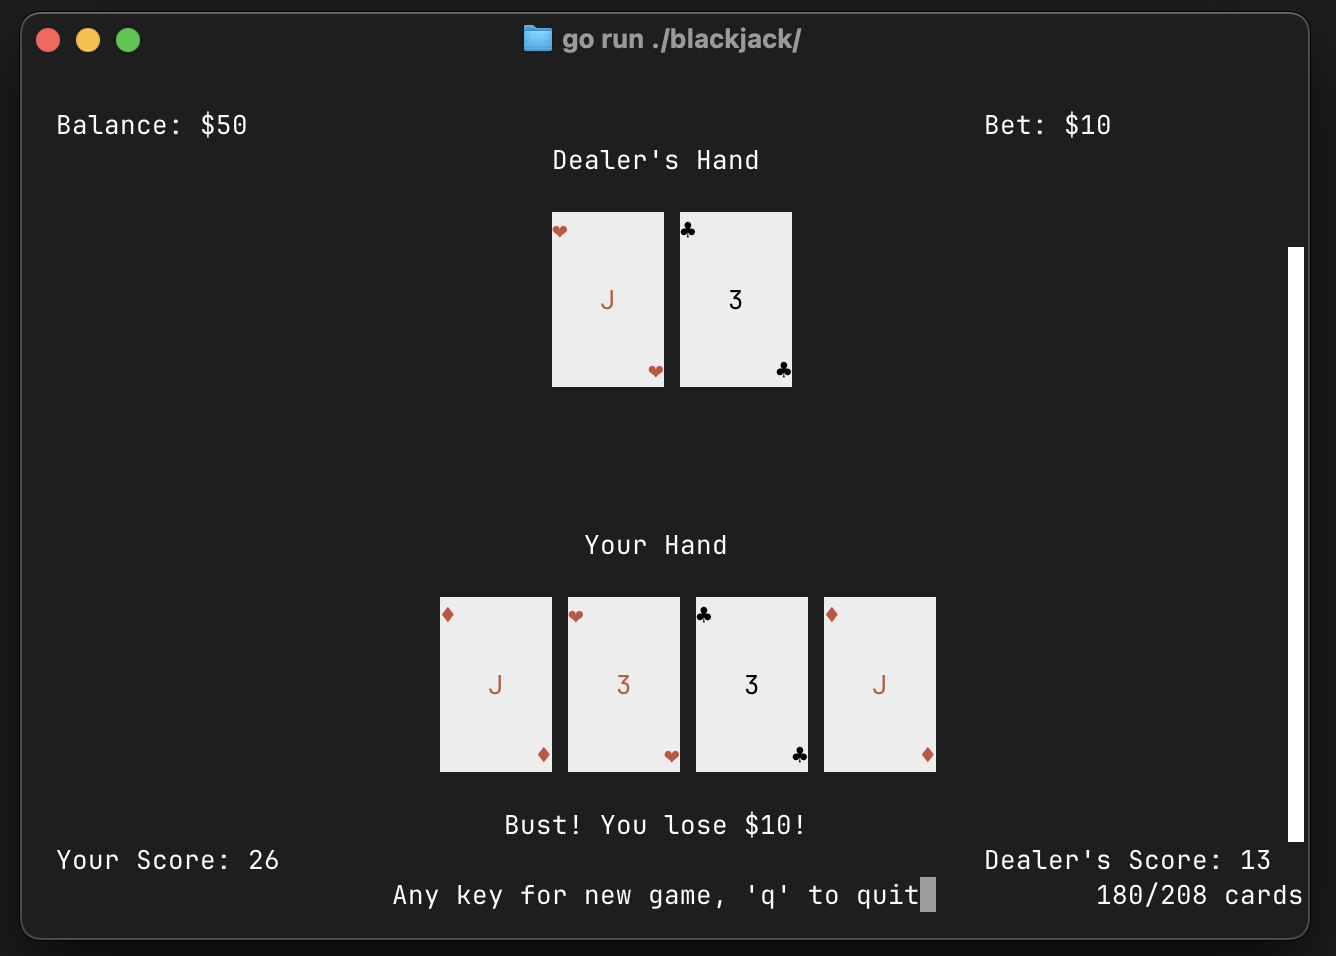
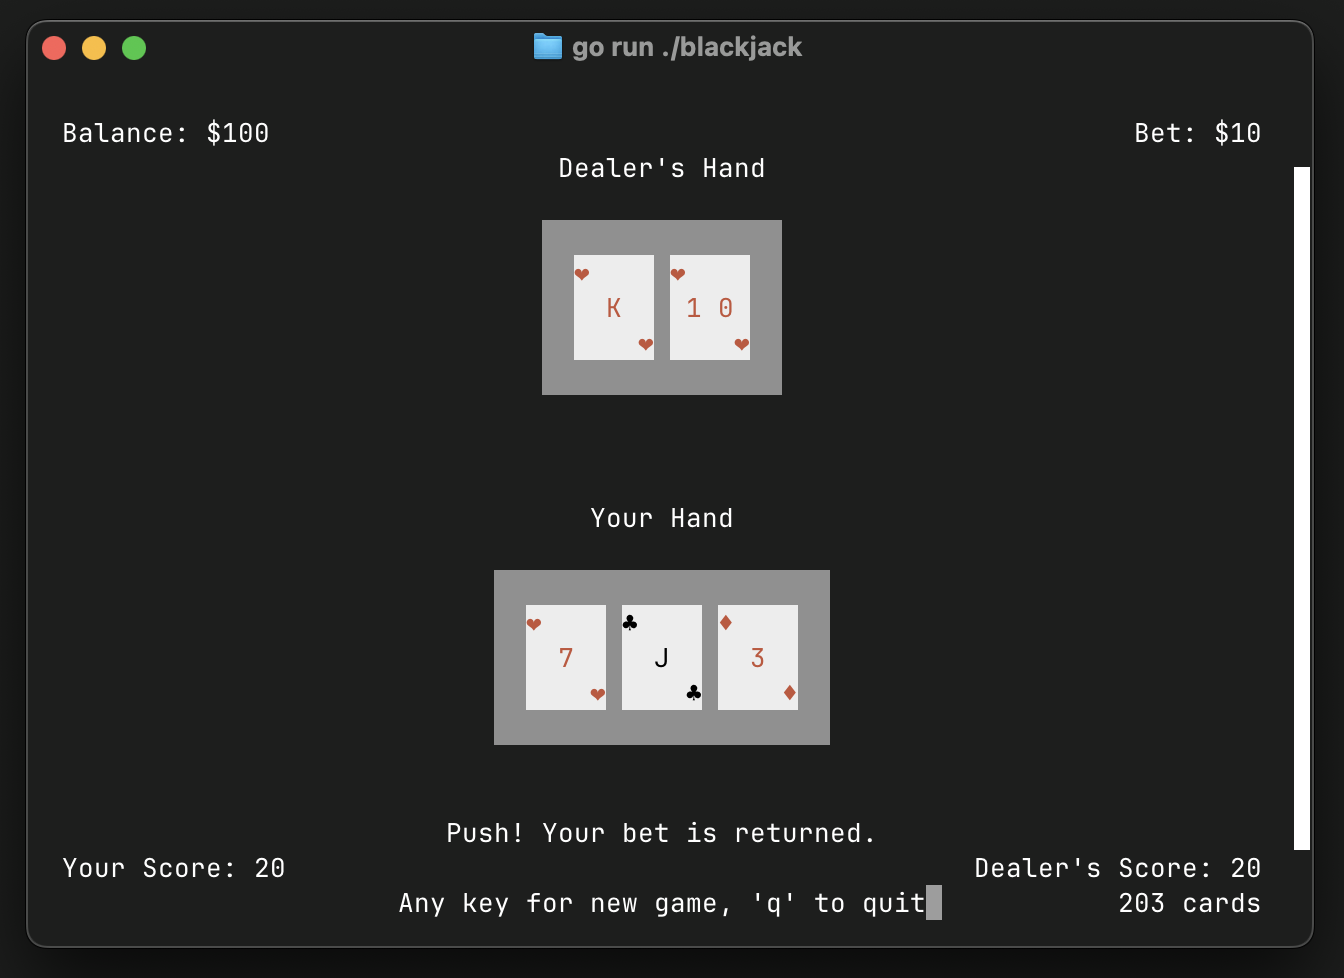
Add a dark gray or green border around the cards, so even if the terminal has white bg they are visible

diff --git a/blackjack/blackjack.go b/blackjack/blackjack.go
@@ -32,15 +32,16 @@ const (
 
 // Game represents the blackjack game state.
 type Game struct {
-	ap      *ansipixels.AnsiPixels
-	deck    *Deck
-	player  []Card
-	dealer  []Card
-	playing bool
-	state   GameState
-	message string
-	balance int
-	bet     int
+	ap          *ansipixels.AnsiPixels
+	deck        *Deck
+	player      []Card
+	dealer      []Card
+	playing     bool
+	state       GameState
+	message     string
+	balance     int
+	bet         int
+	borderColor string
 }
 
 // initDeck initializes a new shuffled deck.
@@ -87,6 +88,7 @@ const (
 // drawCardOnScreen draws a card on the screen at the specified position.
 func (g *Game) drawCardOnScreen(x, y int, card Card, hidden bool) {
 	// Draw card border
+	g.ap.DrawColoredBox(x-1, y-1, cardWidth+1, 5, g.borderColor)
 	g.ap.MoveCursor(x, y)
 	// Draw card content
 	if hidden {
@@ -121,6 +123,8 @@ func (g *Game) drawCardOnScreen(x, y int, card Card, hidden bool) {
 
 // drawHand draws a hand of cards at the specified position.
 func (g *Game) drawHand(x, y int, cards []Card, hideFirst bool) {
+	// Add extra bars vertically so space around cards is even on height vs width (as pixels are 2x tall than wide)
+	g.ap.DrawColoredBox(x-2, y-1, cardWidth*len(cards)+3, 5, g.borderColor)
 	for i, card := range cards {
 		hidden := hideFirst && i == 0
 		pos := x + i*cardWidth
@@ -296,10 +300,10 @@ func (g *Game) draw() {
 	// Draw dealer's hand
 	g.ap.WriteCentered(2, "Dealer's Hand")
 	dealerOffset := g.LeftMostCardPos(len(g.dealer))
-	g.drawHand(dealerOffset, 4, g.dealer, g.state == StatePlayerTurn)
+	g.drawHand(dealerOffset, 5, g.dealer, g.state == StatePlayerTurn)
 
 	// Draw player's hand
-	g.ap.WriteCentered(g.ap.H-11, "Your Hand")
+	g.ap.WriteCentered(g.ap.H-12, "Your Hand")
 	playerOffset := g.LeftMostCardPos(len(g.player))
 	g.drawHand(playerOffset, g.ap.H-9, g.player, false)
 
@@ -362,6 +366,7 @@ func main() {
 	betAmount := flag.Int("bet", 10, "Bet amount in `dollars`")
 	numDecks := flag.Int("decks", 4, "Number of decks to use")
 	fps := flag.Float64("fps", 60, "Frames per second (for resize/refreshes/animations)")
+	greenFlag := flag.Bool("green", false, "Use green instead of dark grey around the cards")
 	cli.Main()
 
 	ap := ansipixels.NewAnsiPixels(*fps)
@@ -371,11 +376,15 @@ func main() {
 	}
 
 	game := &Game{
-		ap:      ap,
-		playing: true,
-		state:   StatePlayerTurn,
-		balance: *initialBalance,
-		bet:     *betAmount,
+		ap:          ap,
+		playing:     true,
+		state:       StatePlayerTurn,
+		balance:     *initialBalance,
+		bet:         *betAmount,
+		borderColor: ansipixels.DarkGrayBG,
+	}
+	if *greenFlag {
+		game.borderColor = ansipixels.GreenBG
 	}
 	game.initDeck(*numDecks)
 

diff --git a/ansipixels/ansipixels.go b/ansipixels/ansipixels.go
@@ -389,18 +389,22 @@ func (ap *AnsiPixels) ShowCursor() {
 }
 
 func (ap *AnsiPixels) DrawSquareBox(x, y, w, h int) {
-	ap.DrawBox(x, y, w, h, SquareTopLeft, SquareTopRight, SquareBottomLeft, SquareBottomRight)
+	ap.DrawBox(x, y, w, h, SquareTopLeft, Horizontal, SquareTopRight, Vertical, SquareBottomLeft, SquareBottomRight)
 }
 
 func (ap *AnsiPixels) DrawRoundBox(x, y, w, h int) {
-	ap.DrawBox(x, y, w, h, RoundTopLeft, RoundTopRight, RoundBottomLeft, RoundBottomRight)
+	ap.DrawBox(x, y, w, h, RoundTopLeft, Horizontal, RoundTopRight, Vertical, RoundBottomLeft, RoundBottomRight)
 }
 
-func (ap *AnsiPixels) DrawBox(x, y, w, h int, topLeft, topRight, bottomLeft, bottomRight string) {
+func (ap *AnsiPixels) DrawColoredBox(x, y, w, h int, color string) {
+	ap.DrawBox(x, y, w, h, color+" ", " ", " ", " ", " ", " "+Reset)
+}
+
+func (ap *AnsiPixels) DrawBox(x, y, w, h int, topLeft, horizontal, topRight, vertical, bottomLeft, bottomRight string) {
 	if y >= 0 {
 		ap.MoveCursor(x, y)
 		ap.WriteString(topLeft)
-		ap.WriteString(strings.Repeat(Horizontal, w-2))
+		ap.WriteString(strings.Repeat(horizontal, w-2))
 		ap.WriteString(topRight)
 	}
 	for i := 1; i < h-1; i++ {
@@ -412,16 +416,16 @@ func (ap *AnsiPixels) DrawBox(x, y, w, h int, topLeft, topRight, bottomLeft, bot
 				ap.WriteString(topLeft)
 			}
 		} else {
-			ap.WriteString(Vertical)
+			ap.WriteString(vertical)
 			ap.MoveHorizontally(x + w - 1)
-			ap.WriteString(Vertical)
+			ap.WriteString(vertical)
 		}
 	}
 	ap.MoveCursor(x, y+h-1)
 	ap.WriteString(bottomLeft)
-	ap.WriteString(strings.Repeat(Horizontal, w-3))
+	ap.WriteString(strings.Repeat(horizontal, w-3))
 	if x+w <= ap.W {
-		ap.WriteString(Horizontal + bottomRight)
+		ap.WriteString(horizontal + bottomRight)
 	} else {
 		ap.WriteString(topRight)
 	}

diff --git a/blackjack/README.md b/blackjack/README.md
@@ -14,7 +14,6 @@ go run fortio.org/terminal/blackjack@latest
 ## Usage
 
 ```
-
 blackjack 0.25.0 usage:
 	blackjack [flags]
 or 1 of the special arguments
@@ -26,4 +25,8 @@ flags:
         Bet amount in dollars (default 10)
   -decks int
         Number of decks to use (default 4)
+  -fps float
+        Frames per second (for resize/refreshes/animations) (default 60)
+  -green
+        Use green instead of dark grey around the cards
 ```
